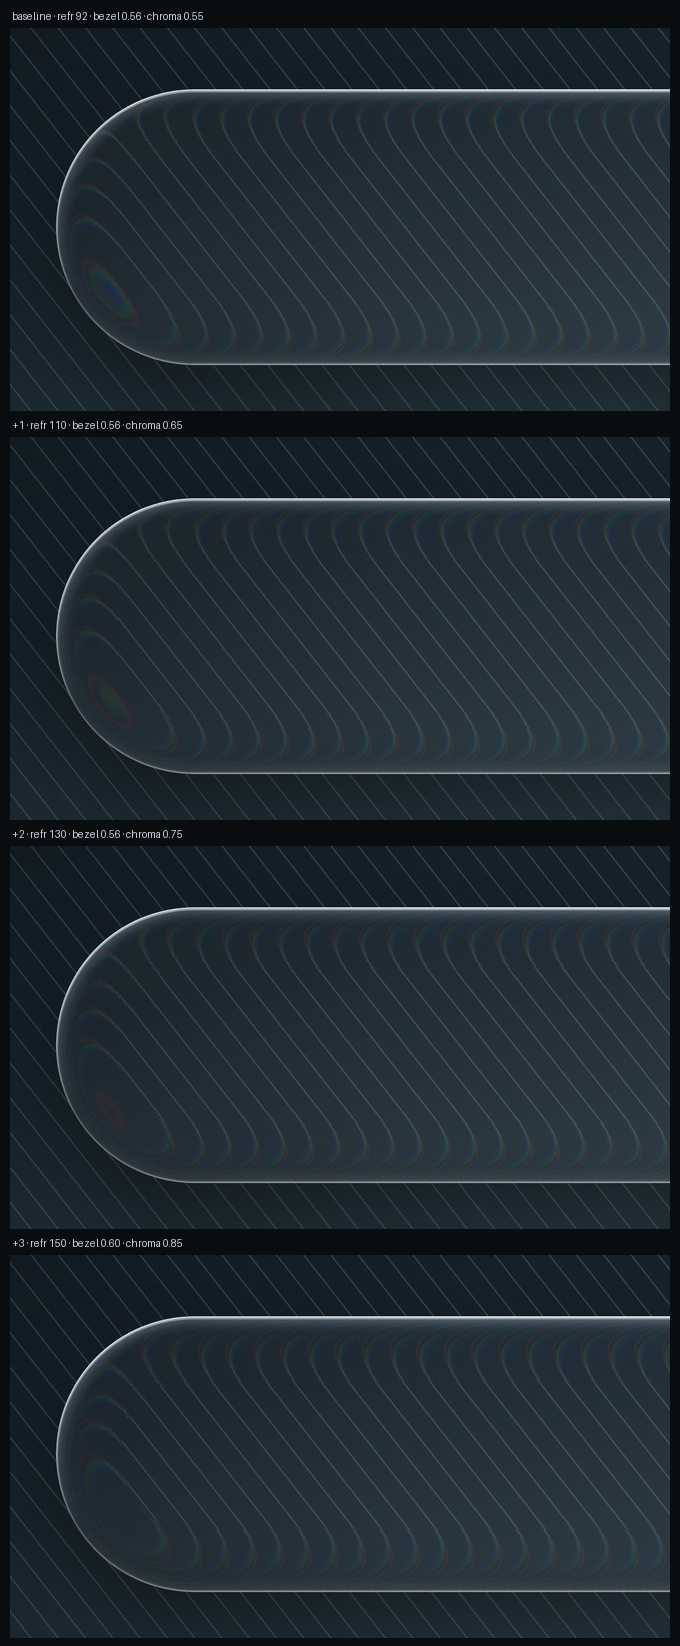
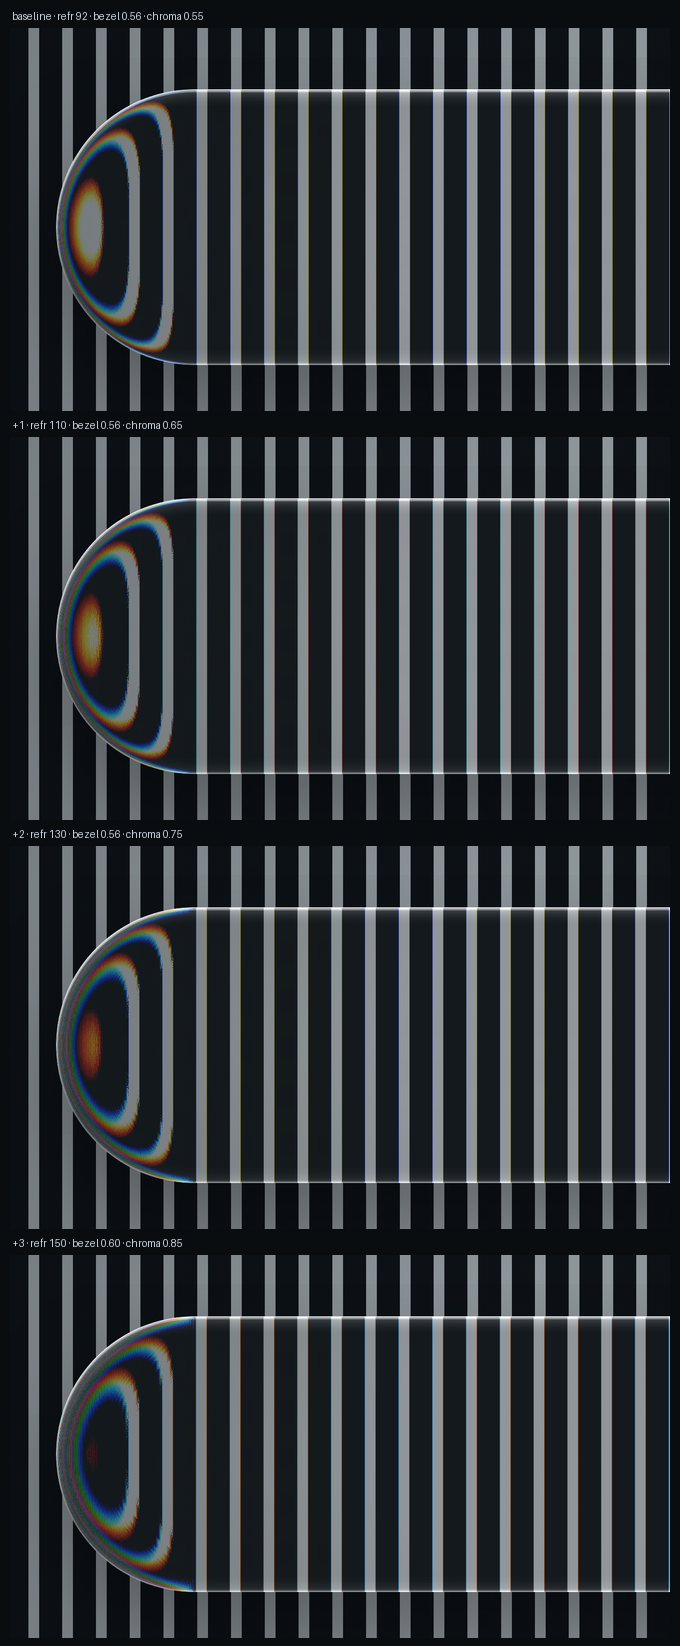
Nine-band spectrum: continuous fringe without blur
- engine builds 9 spectral bands with normalised per-channel weights (sum stays 1)
- demo runs blur 0 at mapScale 8, so the glass stays crisp while the fringe is smooth
- copy and docs corrected: 9 bands, 8x map, noise dithering instead of Bayer/ordered

diff --git a/src/liquid-glass.js b/src/liquid-glass.js
@@ -266,16 +266,31 @@ function node(name, attrs) {
   return n;
 }
 
-// 5 个光谱采样：R → R/G → G → G/B → B，权重之和在每个通道上都等于 1，
-// 比 3 通道版本多两档过渡，色散带之间不再断层。
-const CHANNELS = [
-  '0.75 0 0 0 0  0 0 0 0 0  0 0 0 0 0  0 0 0 1 0',
-  '0.25 0 0 0 0  0 0.25 0 0 0  0 0 0 0 0  0 0 0 1 0',
-  '0 0 0 0 0  0 0.5 0 0 0  0 0 0 0 0  0 0 0 1 0',
-  '0 0 0 0 0  0 0.25 0 0 0  0 0 0.25 0 0  0 0 0 1 0',
-  '0 0 0 0 0  0 0 0 0 0  0 0 0.75 0 0  0 0 0 1 0',
-];
-const CHROMA_T = [0, 0.35, 0.5, 0.75, 1];
+// Spectral sampling. Each band isolates a narrow slice of the R→G→B axis and is displaced
+// at its own scale; the per-channel weights are normalised so every channel still sums to 1
+// and the glass keeps its colour. More bands = a continuous fringe instead of 3 or 5 hard
+// steps, which is what lets us drop the source blur and keep the glass crisp.
+const CHROMA_BANDS = 9;
+
+function buildSpectrum(n) {
+  const raw = [];
+  for (let i = 0; i < n; i++) {
+    const t = i / (n - 1);
+    raw.push([
+      Math.max(0, 1 - 2 * t),                 // red end
+      1 - Math.abs(2 * t - 1),                // green centre
+      Math.max(0, 2 * t - 1),                 // blue end
+    ]);
+  }
+  const sum = [0, 0, 0];
+  for (const w of raw) w.forEach((v, c) => { sum[c] += v; });
+  return raw.map((w) => [w[0] / sum[0], w[1] / sum[1], w[2] / sum[2]]);
+}
+
+const CHANNELS = buildSpectrum(CHROMA_BANDS).map(([r, g, b]) =>
+  `${r.toFixed(4)} 0 0 0 0  0 ${g.toFixed(4)} 0 0 0  0 0 ${b.toFixed(4)} 0 0  0 0 0 1 0`);
+
+const CHROMA_T = Array.from({ length: CHROMA_BANDS }, (_, i) => i / (CHROMA_BANDS - 1));
 
 // Filter graph (all coordinates are fractions of the element box — see bendScale):
 //   map        = lens PNG over neutral grey (128 = no bend), only inside the lens rect

diff --git a/demo/index.html b/demo/index.html
@@ -23,7 +23,7 @@
     <span><b>05</b> License</span>
   </nav>
 
-  <section class="hero glass" data-glass data-refraction="92" data-bezel="0.56" data-chroma="0.55" data-map-scale="8" data-blur="0.55">
+  <section class="hero glass" data-glass data-refraction="92" data-bezel="0.56" data-chroma="0.55" data-map-scale="8" data-blur="0">
     <div class="eyebrow">Liquid glass · v1.1</div>
     <h1>Refraction you can<br>measure in pixels.</h1>
     <p>
@@ -32,12 +32,12 @@
     </p>
     <div class="kpis">
       <div class="kpi">
-        <div class="v">5<em>bands</em></div>
+        <div class="v">9<em>bands</em></div>
         <div class="k">Spectral samples, weighted to sum back to white</div>
       </div>
       <div class="kpi">
-        <div class="v">4&#215;<em>map</em></div>
-        <div class="k">Displacement resolution with ordered dithering</div>
+        <div class="v">8&#215;<em>map</em></div>
+        <div class="k">Map resolution, noise-dithered to kill banding</div>
       </div>
       <div class="kpi">
         <div class="v">0<em>px</em></div>
@@ -46,7 +46,7 @@
     </div>
   </section>
 
-  <aside class="side glass" data-glass data-refraction="92" data-bezel="0.56" data-chroma="0.55" data-map-scale="8" data-blur="0.55">
+  <aside class="side glass" data-glass data-refraction="92" data-bezel="0.56" data-chroma="0.55" data-map-scale="8" data-blur="0">
     <h2>Edge bend across the rim</h2>
     <svg class="chart" viewBox="0 0 456 210" role="img" aria-label="Refraction strength falls off from the rim">
       <defs>

diff --git a/MODIFICATIONS.md b/MODIFICATIONS.md
@@ -5,27 +5,28 @@ This repository keeps the engine's architecture (SVG `feDisplacementMap` referen
 `filter: url(#…)`, one runtime-generated displacement map per element) and changes the parts that
 decided how the glass *looks* and how it is *attached* to a card.
 
-## 1. Five spectral samples instead of three
+## 1. Nine spectral samples instead of three
 
 `CHANNELS` in `src/liquid-glass.js` used to isolate R, G and B and displace each at its own scale.
 With a large `chroma` that reads as three hard colour bands.
 
-Now five weighted samples span the spectrum — R, R/G, G, G/B, B — with weights that sum to 1 on
-every channel (`0.75`, `0.25+0.25`, `0.5`, `0.25+0.25`, `0.75`). Colour energy is preserved, so the
-glass does not darken, and the fringe becomes a gradient rather than three stripes.
+The engine now builds nine bands along the R→G→B axis and normalises the per-channel weights so
+each channel still sums to 1. Colour energy is preserved (the glass does not darken) and the fringe
+becomes a continuous spectrum, which is what lets the demo run with `blur: 0` and stay crisp.
 
-Scales follow `CHROMA_T = [0, 0.35, 0.5, 0.75, 1]`.
+Scales are `i / 8` for i in 0…8.
 
 ## 2. Linear interpolation in the lens profile
 
 `const m = table[Math.min(N, Math.round(s * N))]` snapped the bend to the nearest table entry, which
 shows up as concentric steps at high `refraction`. It now interpolates between `i0` and `i1`.
 
-## 3. Ordered dithering on the displacement bytes
+## 3. Noise dithering on the displacement bytes
 
 The map stores the bend in 8-bit R/G channels. At `refraction: 92` one LSB is ≈ 0.7 CSS px, enough to
-band. A 4×4 Bayer offset of ±1.5 LSB is added before rounding; the banding turns into fine grain that
-disappears when the 3× screenshot is downscaled.
+band. A 4×4 Bayer matrix was the first attempt, but a periodic pattern shows up as a visible dot lattice
+once `refraction` grows. It is now interleaved gradient noise (non-repeating) at ~±0.4 LSB, which
+reads as fine grain and vanishes at capture resolution.
 
 ## 4. `mapScale` raised to 4–5
 

diff --git a/README.md b/README.md
@@ -50,10 +50,10 @@
 
 | 改动 | 原因 |
 | --- | --- |
-| 色散从 3 通道扩到 **5 档光谱采样** | 3 通道会在边缘出现紫／绿／青三条硬带；5 档权重之和在每个通道上仍等于 1，颜色不会被压暗 |
+| 色散从 3 通道扩到 **9 档光谱采样** | 3 通道会在边缘出现紫／绿／青三条硬带；9 档按 R→G→B 轴逐级取样、权重归一化，边缘是连续光谱而不是几条硬带 |
 | 透镜剖面表改为 **线性插值** | 原来按整格取表值，折射量呈阶梯 |
-| 位移字节加 **4×4 有序抖动** | 8 位量化在 100px 级折射下会产生同心环 |
-| 采样密度 **mapScale 4–5×** | 位移图分辨率翻倍，边缘过渡更连续 |
+| 位移字节加 **非周期噪声抖动** | 8 位量化在 100px 级折射下会产生同心环 |
+| 采样密度 **mapScale 6–8×** | 位移图分辨率翻倍，边缘过渡更连续 |
 | 折射强度按元素短边收敛 | 42px 高的胶囊吃 92px 折射会被拉出边界，大卡片才需要强折射 |
 | 独立的 `glass-plate.js` 接入层 | 把「背景副本 + 精确裁切 + 字体后重测」封装成一行调用 |
 
